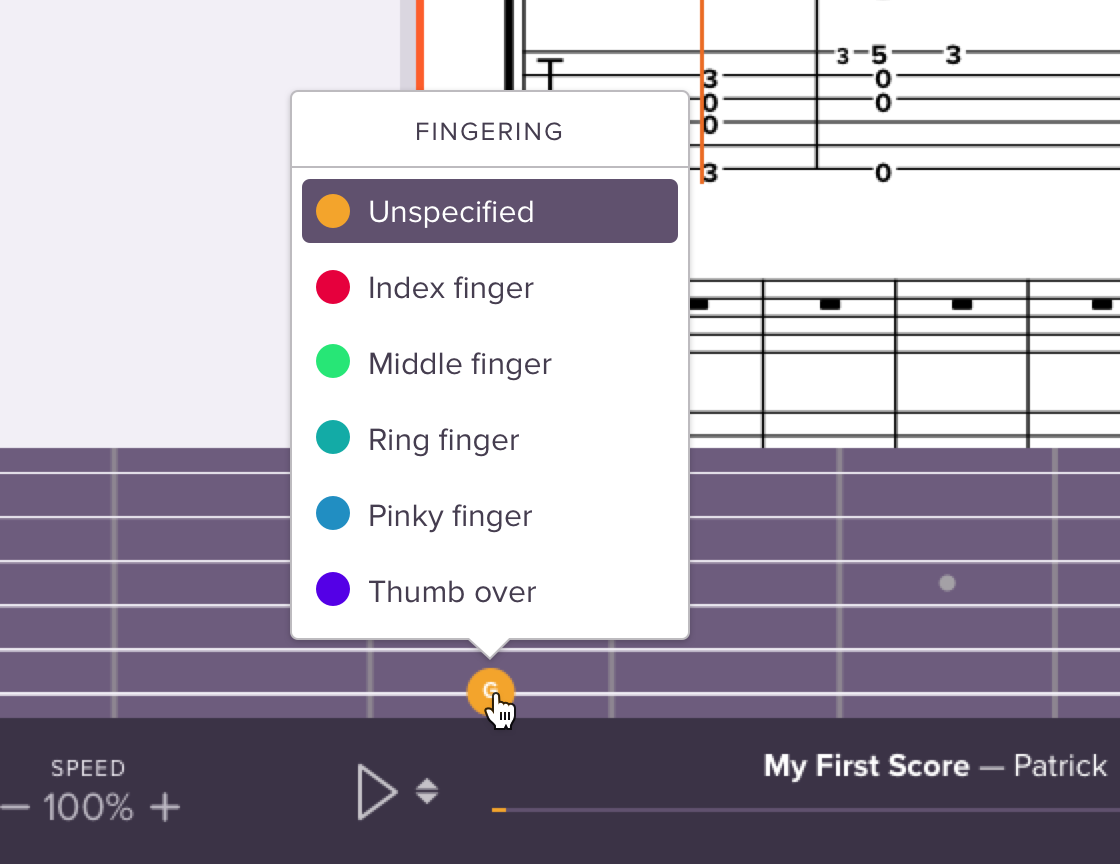
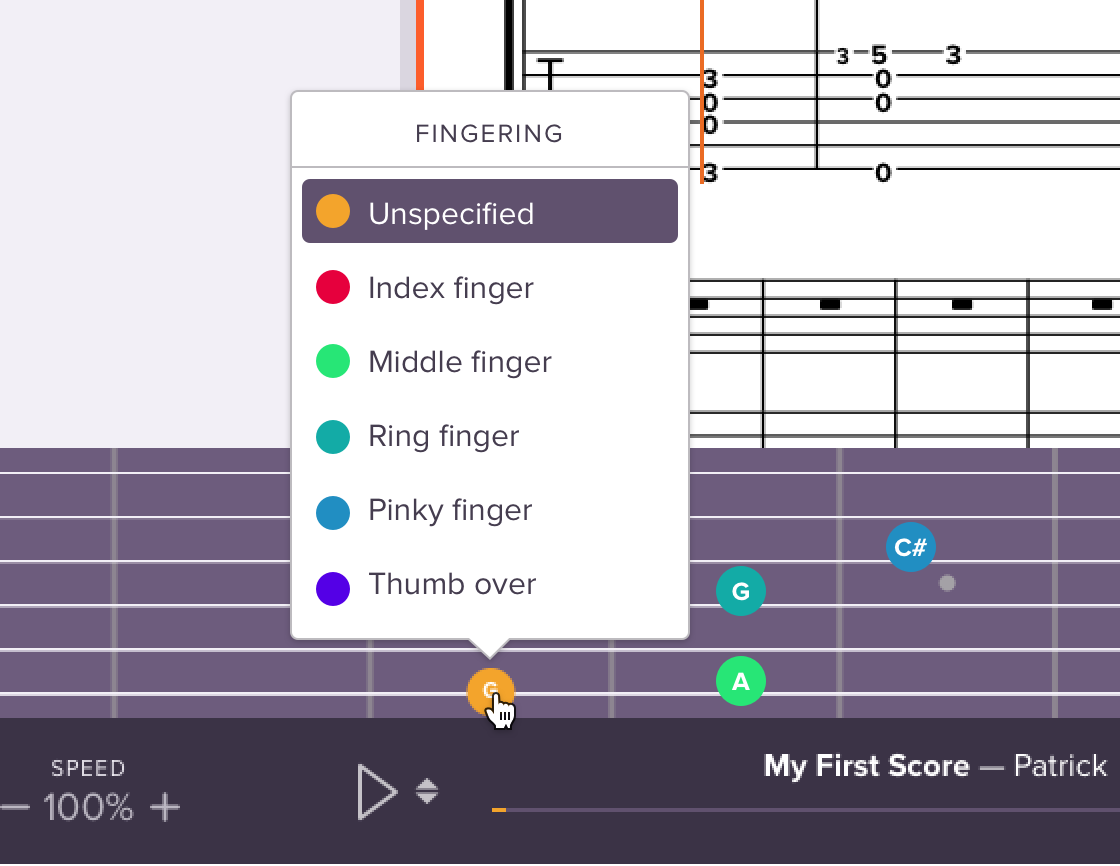
feat: added Soundslice case

diff --git a/work-soundslice.html b/work-soundslice.html
@@ -12,32 +12,29 @@
       href="https://cdnjs.cloudflare.com/ajax/libs/font-awesome/5.15.3/css/all.min.css"
       rel="stylesheet"
     />
-    <link href="css/glider.css" rel="stylesheet" />
     <link href="css/global.css" rel="stylesheet" />
     <script src="https://ajax.googleapis.com/ajax/libs/jquery/3.6.0/jquery.min.js"></script>
-    <script src="https://cdnjs.cloudflare.com/ajax/libs/glider-js/1.7.7/glider.min.js"></script>
     <script src="js/global.js"></script>
-    <script>
-      window.addEventListener("load", function () {
-        new Glider(document.querySelector(".screenshots .carousel"), {
-          slidesToShow: 1,
-          duration: 1,
-          dots: ".screenshots .dots",
-          arrows: {
-            prev: ".screenshots .glider-prev",
-            next: ".screenshots .glider-next",
-          },
-        });
-
-      });
-    </script>
+   
     <style>
       section:nth-child(even) {
         background-color: var(--tint-background);
       }
-      .fit img {
+      section img {
         border-radius: 0.5rem;
-        box-shadow: 0px 5px 15px rgba(0, 0, 0, 0.05);
+        box-shadow: 0px 5px 15px rgba(0, 0, 0, 0.1);
+        margin-top: 2rem;
+        margin-bottom: 2rem;
+      }
+      .ui-enhancements2 {
+        display: grid;
+        grid-template-columns: 1fr 1fr;
+        gap: 1rem;
+      }
+      .landing {
+        display: grid;
+        grid-template-columns: 1200fr 365fr;
+        gap: 1rem;
       }
 
     </style>
@@ -55,99 +52,36 @@
         <dt>Role</dt>
         <dd>UX/UI Design</dd>
       </dl>
-    </header>
    <section>
       <p>
-        Soundslice is a web-based music-learning platform that helps musicians learn pieces of music by synchronizing notation with video and audio, and providing tools for looping, slowing down and transcribing music. The software is used to deliver Soundslice's own courses, by teachers as a way to supplement their lessons, and by third-parties who license the technology and embed it in their own applications.
+        Soundslice is a web-based music-learning platform that helps musicians learn pieces of music by synchronizing notation with video and audio, and providing tools for looping, slowing down and transcribing music. The software is used to deliver Soundslice’s own courses, by teachers as a way to supplement their lessons, and by third-parties who license the technology and embed it in their own applications.
       </p>
+      <div><img src="images/work-soundslice-store.png" alt="Screenshot of the Soundslice Store"></div>
       <p>
-      The developers of Soundslice approached me to help them with some user-interface challenges that they have been struggling with, and to design a new landing page to help market the embeddable product to potential licensing partners.
+      The developers of Soundslice approached me to help them with some user-interface challenges that they have been struggling with, and to design a new landing page to help market the  product to potential licensing partners.
     </p>
   </section>     
-    <section>
+    <section class="ui-enhancements">
       <h2>User-interface enhancements</h2>
-      <div class="fit"><img src="images/work-soundslice-crop.png" alt="Screenshot of the Soundslice cropping UI"></div>
       <p>
         When teachers are transcribing a piece of music, they often need to isolate a section from a longer piece of music but there was no straightforward way of doing so in the user-interface. I designed an intuitive solution that allows the user to drag start- and end-braces in the waveform display.
       </p>
-      <p>
-        The content can be filtered in different ways. Select a subject or
-        filter by clicking on the world map. Teachers have there own section
-        with lesson ideas and an archive of teaching material. After testing the
-        site with schoolchildren, I did some further design to make the
-        connection between the map, filters and content thumbnails more obvious.
-        It was also interesting to see from analytics data how the search field
-        is a popular starting point. We improved the search functionality with
-        instant (as you type) results, and suggestions for misspelled words to
-        help children find countries with difficult spelling.
-      </p>
-      <div class="wireframes carousel-container">
-        <div class="carousel">
-          <div>
-            <img
-              src="images/work-samsam-wireframe1.png"
-              alt="Samsam wireframe"
-            />
-          </div>
-          <div>
-            <img
-              src="images/work-samsam-wireframe2.png"
-              alt="Samsam wireframe"
-            />
-          </div>
-          <div>
-            <img
-              src="images/work-samsam-wireframe3.png"
-              alt="Samsam wireframe"
-            />
-          </div>
-        </div>
-        <button class="glider-prev">
-          <i class="fa fa-chevron-left"></i>
-        </button>
-        <button class="glider-next">
-          <i class="fa fa-chevron-right"></i>
-        </button>
-        <div role="tablist" class="dots"></div>
+      <div><img src="images/work-soundslice-crop.png" alt="Screenshot of the Soundslice cropping UI"></div>
+      <p>Soundslice provides guitarists with a realtime fretboard display but didn't provide the learner with guidance on fingering. I designed a straightforward colour-coding system as well as a UI for the teacher to specify which finger to be used for each note.</p>
+      <div class="ui-enhancements2">
+        <img src="images/work-soundslice-editor-fingering.png" alt="Screenshot of the fingering editor">
+        <img src="images/work-soundslice-bookmarks-menu.png" alt="Screenshot of the work-soundslice-bookmarks-menu">
       </div>
-      <div class="links">
-        <a class="secondary-button" href="https://www.samsam.net" target="_blank">Visit the site at www.samsam.net<i class="fas fa-external-link-alt"></i></a>
+
+    </section>
+
+      <section>
+        <h2>Responsive landing page</h2>
+        <div class="landing">
+          <img src="images/work-soundslice-marketing-wide.png" alt="Soundslice landing page design">
+          <img src="images/work-soundslice-marketing-narrow.png" alt="Mobile version of the landing page">
         </div>
-    </section>
-    <section>
-      <h2>User-generated content</h2>
-      <div class="videoWrapper">
-          <div class="videoSizer">
-        <iframe src="https://player.vimeo.com/video/551432414?title=0&amp;byline=0&amp;portrait=0&amp;speed=0&amp;badge=0&amp;autopause=0&amp;player_id=0&amp;app_id=58479" width="1600" height="900" frameborder="0" allow="autoplay; fullscreen; picture-in-picture" allowfullscreen title="ReportersClub"></iframe>
-    </div>
-</div>
-
-      <p>
-        After launch of the new publishing platform, Samsam approached us to
-        think about ideas for how we can engage kids and schools. I helped
-        facilitate several workshops and creative sessions which lead to the
-        Reportersclub concept.
-      </p>
-
-      <p>
-        The idea is to provide school classes with a tool that goes beyond just
-        another social network or user-generated-content platform. The site
-        provides specific features that help kids work together in teams, and
-        challenges them with subjects to investigate in the form of "Missions".
-      </p>
-
-      <p>
-        As an interaction designer is was exciting to work on complex
-        collaborative tools and make them accessible, yet sufficiently rich in
-        possibilities for self-expression, for the younger users. I prototyped
-        the site and mobile app using Axure while working together with
-        developers with an agile approach. I also helped out with some of the
-        visual design tasks during the later stages of production.
-    </p>
-    <div class="links">
-    <a class="secondary-button" href="https://www.patrickrushton.com/prototypes/samsam-reportersclub-prototype/#p=introduction" target="_blank">Open the Axure prototype<i class="fas fa-external-link-alt"></i></a>
-    </div>
-    </section>
+      </section>
     <footer id="more-work" class="inverse"></footer>
   </body>
 </html>

diff --git a/css/global.css b/css/global.css
@@ -37,7 +37,7 @@ h2 {
   font-weight: bold;
   text-align: center;
   /* margin-bottom: 1rem; */
-  margin: 0 auto 1rem auto;
+  margin: 1rem auto 1rem auto;
 }
 
 h3 {
@@ -51,8 +51,16 @@ header p, section p,
 section ul {
   max-width: 700px;
   color: var(--dark-mid-text);
-  margin: 2rem auto;
+  margin: 1rem auto 1rem auto;
 }
+/* 
+section p:first-child {
+  margin-top: 0;
+} */
+
+/* section p:last-child {
+  margin-bottom: 0;
+} */
 
 section li {
   margin: 0.5rem 3rem 0.5rem 3rem;
@@ -100,7 +108,7 @@ header {
 
 section, footer {
   width: 100%;
-  padding: 5rem 0;
+  padding: 4rem 0;
 }
 
 section > * {
@@ -198,7 +206,7 @@ nav a {
 
 .links {
     text-align: center;
-    margin-top: 2rem;
+    margin: 2rem auto 1rem auto;
 }
 
 .secondary-button {
@@ -206,9 +214,9 @@ nav a {
   border-radius: 2rem;
   padding: 0.75rem 1.25rem;
   color: var(--primary-accent);
-  background: white;
+  background-color: white;
   font-size: 1rem;
-  transition-duration: 0.4s;
+  transition: background-color 0.2s;
 }
 
 .secondary-button i {
@@ -254,7 +262,7 @@ nav a {
 }
 
 /* Video players */
-.fit, .videoWrapper {
+.bleed, .videoWrapper {
   padding: 0;
 }
 

diff --git a/work-goed-bezig.html b/work-goed-bezig.html
@@ -82,7 +82,7 @@
     <section>
       <p>
         Goed Bezig is a ten week programme that improves performances of teams.
-        A team is brought together under guidance from one of Arbo Unie's
+        A team is brought together under guidance from one of Arbo Unie’s
         coaches who leads group discussions as well as individual assignments.
         The aim is improve energy, self awareness and flexibility towards
         change.

diff --git a/includes/work-carousel.html b/includes/work-carousel.html
@@ -30,7 +30,7 @@
       </div>
     </div>
     <div class="thumbnail">
-      <a href="">
+      <a href="work-soundslice.html">
         <img src="images/thumb-soundslice.png" alt="SoundSlice" />
       </a>
       <div class="thumbnail-label">

diff --git a/css/index.css b/css/index.css
@@ -1,3 +1,5 @@
+/* General */
+
 /* Intro */
 #intro {
     display: flex;
